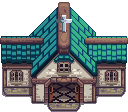
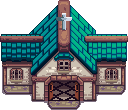
object hit detection for level 1 and 2

diff --git a/game/Level2.java b/game/Level2.java
@@ -19,6 +19,9 @@ public class Level2 extends World
         // Create a new world with 750x500 cells with a cell size of 1x1 pixels.
         super(750, 500, 1);
         
+        // Pit "invisible barrier"
+        addObject(new DayWater(), 650, 100);
+        
         // Create grass base for world to be built upon
         for (int x = 0; x <= 750; x = x + 15)
         {
@@ -41,15 +44,15 @@ public class Level2 extends World
         }
         
         // Make river
-        for (int y = 500; y >= 290; y -= 15)
+        for (int y = 500; y >= 290; y -= 30)
         {
             addObject(new NightWater(), 300, y);
         }
-        for (int x = 330; x <= 480; x += 15)
+        for (int x = 330; x <= 450; x += 30)
         {
             addObject(new NightWater(), x, 290);
         }
-        for (int y = 260; y >= 0; y -= 15)
+        for (int y = 290; y >= -10; y -= 30)
         {
             addObject(new NightWater(), 480, y);
         }
@@ -134,6 +137,31 @@ public class Level2 extends World
                 addObject(new NightFence1(270), 480, y);
             }
         }
+        
+        //Church "invisible barriers"
+        addObject(new DayWater(), 305, 78);
+        addObject(new DayWater(), 305, 90);
+        addObject(new DayWater(), 270, 78);
+        addObject(new DayWater(), 340, 78);
+        addObject(new DayWater(), 305, 58);
+        addObject(new DayWater(), 300, 65);
+        addObject(new DayWater(), 310, 65);
+        
+        // Blue house "invisible barriers"
+        addObject(new DayWater(), 50, 277);
+        addObject(new DayWater(), 50, 307);
+        addObject(new DayWater(), 50, 285);
+        addObject(new DayWater(), 35, 300);
+        addObject(new DayWater(), 65, 300);
+        
+        // Yellow house "invisible barriers"
+        addObject(new DayWater(), 600, 400);
+        addObject(new DayWater(), 570, 400);
+        addObject(new DayWater(), 630, 400);
+        addObject(new DayWater(), 570, 410);
+        addObject(new DayWater(), 585, 410);
+        addObject(new DayWater(), 570, 385);
+        addObject(new DayWater(), 590, 389);
         
         // Spawn POIs
         addObject(new NightHouse1(), 50, 300);

diff --git a/game/Level1.java b/game/Level1.java
@@ -22,6 +22,9 @@ public class Level1 extends World
         // Get character chosen
         this.characterNum = characterNum;
         
+        // Pit "invisible barrier"
+        addObject(new DayWater(), 650, 100);
+        
         // Create grass base for world to be built upon
         for (int x = 0; x <= 750; x = x + 15)
         {
@@ -44,15 +47,15 @@ public class Level1 extends World
         }
         
         // Make river
-        for (int y = 500; y >= 290; y -= 15)
+        for (int y = 500; y >= 290; y -= 30)
         {
             addObject(new DayWater(), 300, y);
         }
-        for (int x = 330; x <= 480; x += 15)
+        for (int x = 330; x <= 450; x += 30)
         {
             addObject(new DayWater(), x, 290);
         }
-        for (int y = 260; y >= 0; y -= 15)
+        for (int y = 290; y >= -10; y -= 30)
         {
             addObject(new DayWater(), 480, y);
         }
@@ -137,6 +140,31 @@ public class Level1 extends World
                 addObject(new DayFence1(270), 480, y);
             }
         }
+
+        //Church "invisible barriers"
+        addObject(new DayWater(), 305, 78);
+        addObject(new DayWater(), 305, 90);
+        addObject(new DayWater(), 270, 78);
+        addObject(new DayWater(), 340, 78);
+        addObject(new DayWater(), 305, 58);
+        addObject(new DayWater(), 300, 65);
+        addObject(new DayWater(), 310, 65);
+        
+        // Blue house "invisible barriers"
+        addObject(new DayWater(), 50, 277);
+        addObject(new DayWater(), 50, 307);
+        addObject(new DayWater(), 50, 285);
+        addObject(new DayWater(), 35, 300);
+        addObject(new DayWater(), 65, 300);
+        
+        // Yellow house "invisible barriers"
+        addObject(new DayWater(), 600, 400);
+        addObject(new DayWater(), 570, 400);
+        addObject(new DayWater(), 630, 400);
+        addObject(new DayWater(), 570, 410);
+        addObject(new DayWater(), 585, 410);
+        addObject(new DayWater(), 570, 385);
+        addObject(new DayWater(), 590, 389);
         
         // Spawn POIs
         addObject(new DayHouse1(), 50, 300);

diff --git a/game/Player.java b/game/Player.java
@@ -36,7 +36,7 @@ public class Player extends Actor
         int x = getX();
         int y = getY();
         
-        // Move the player from key pressed
+        // Move the player from key press
         if (Greenfoot.isKeyDown("down"))
         {
             this.setImage(characterNum + " - forward facing.png");
